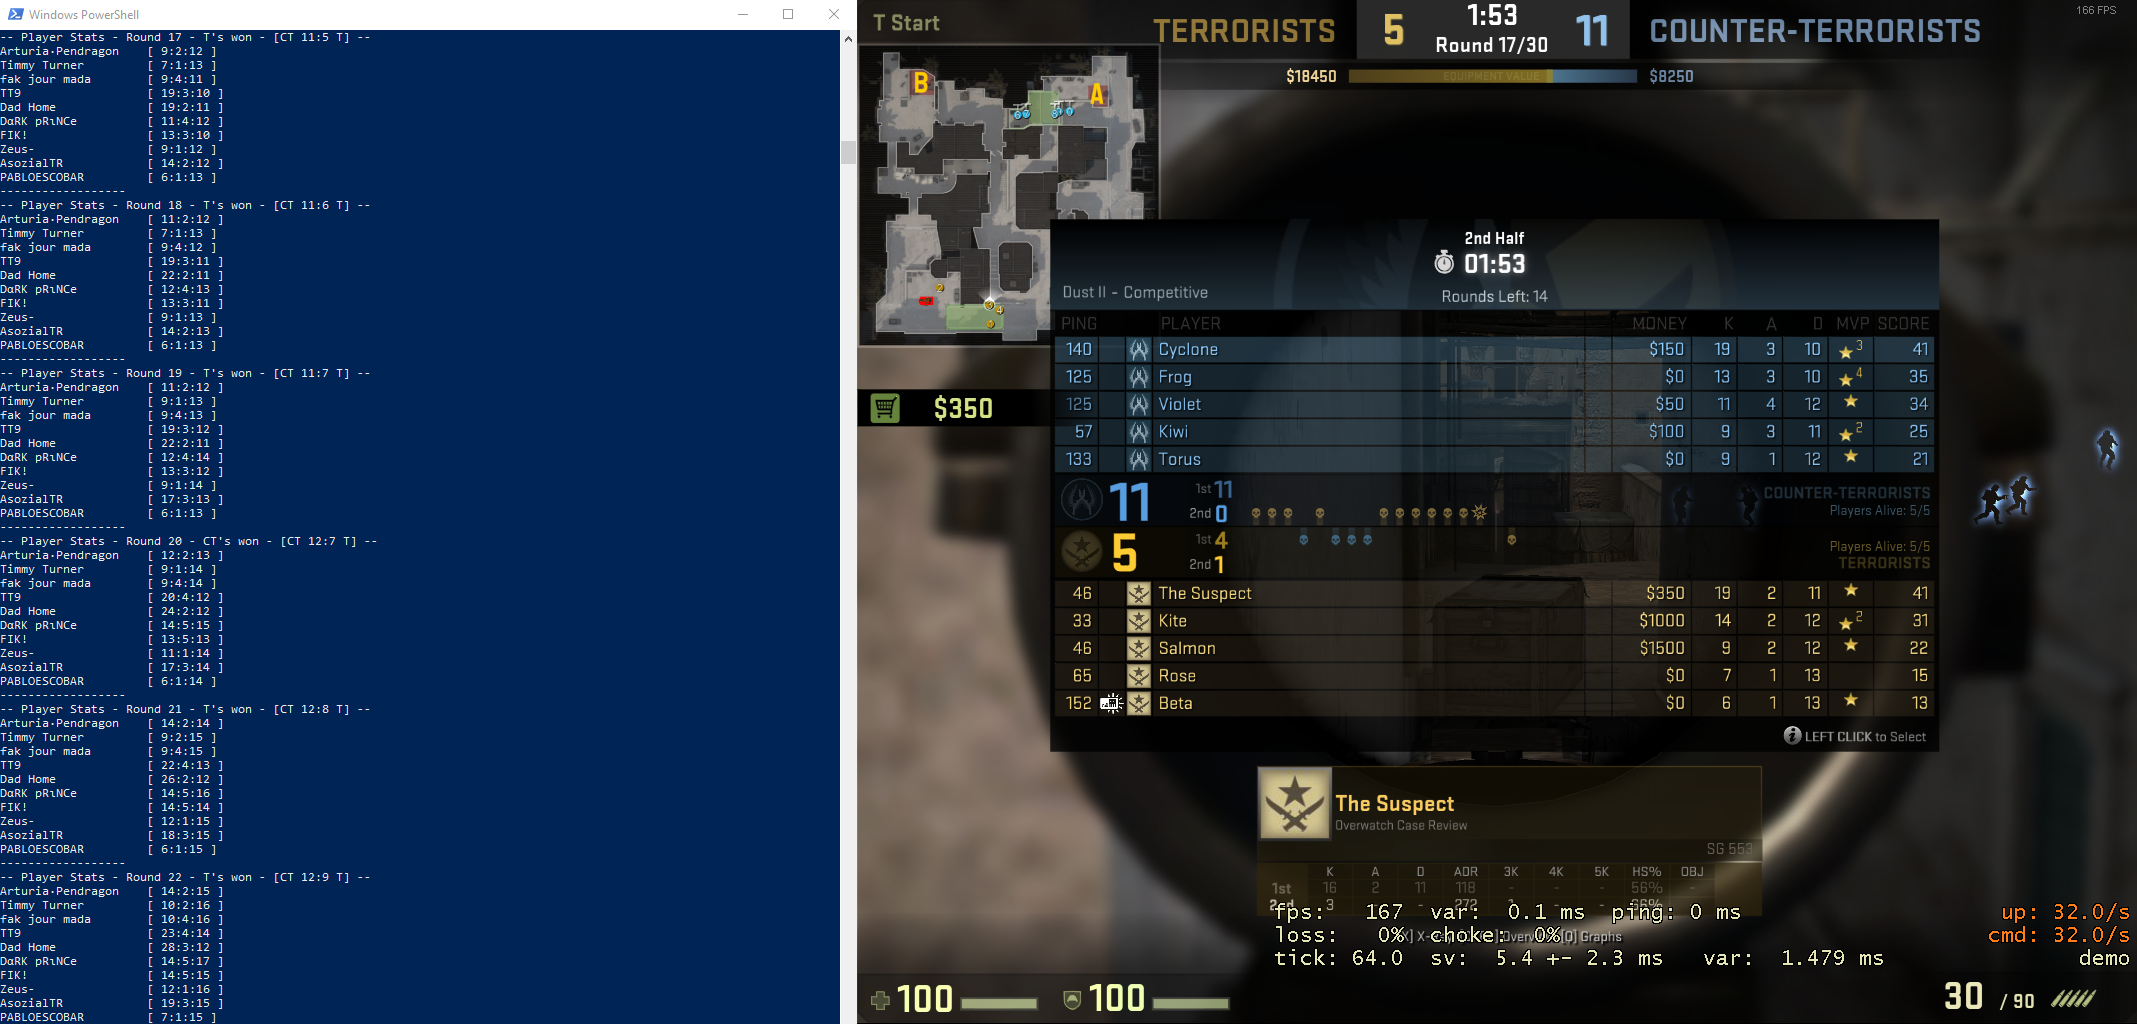
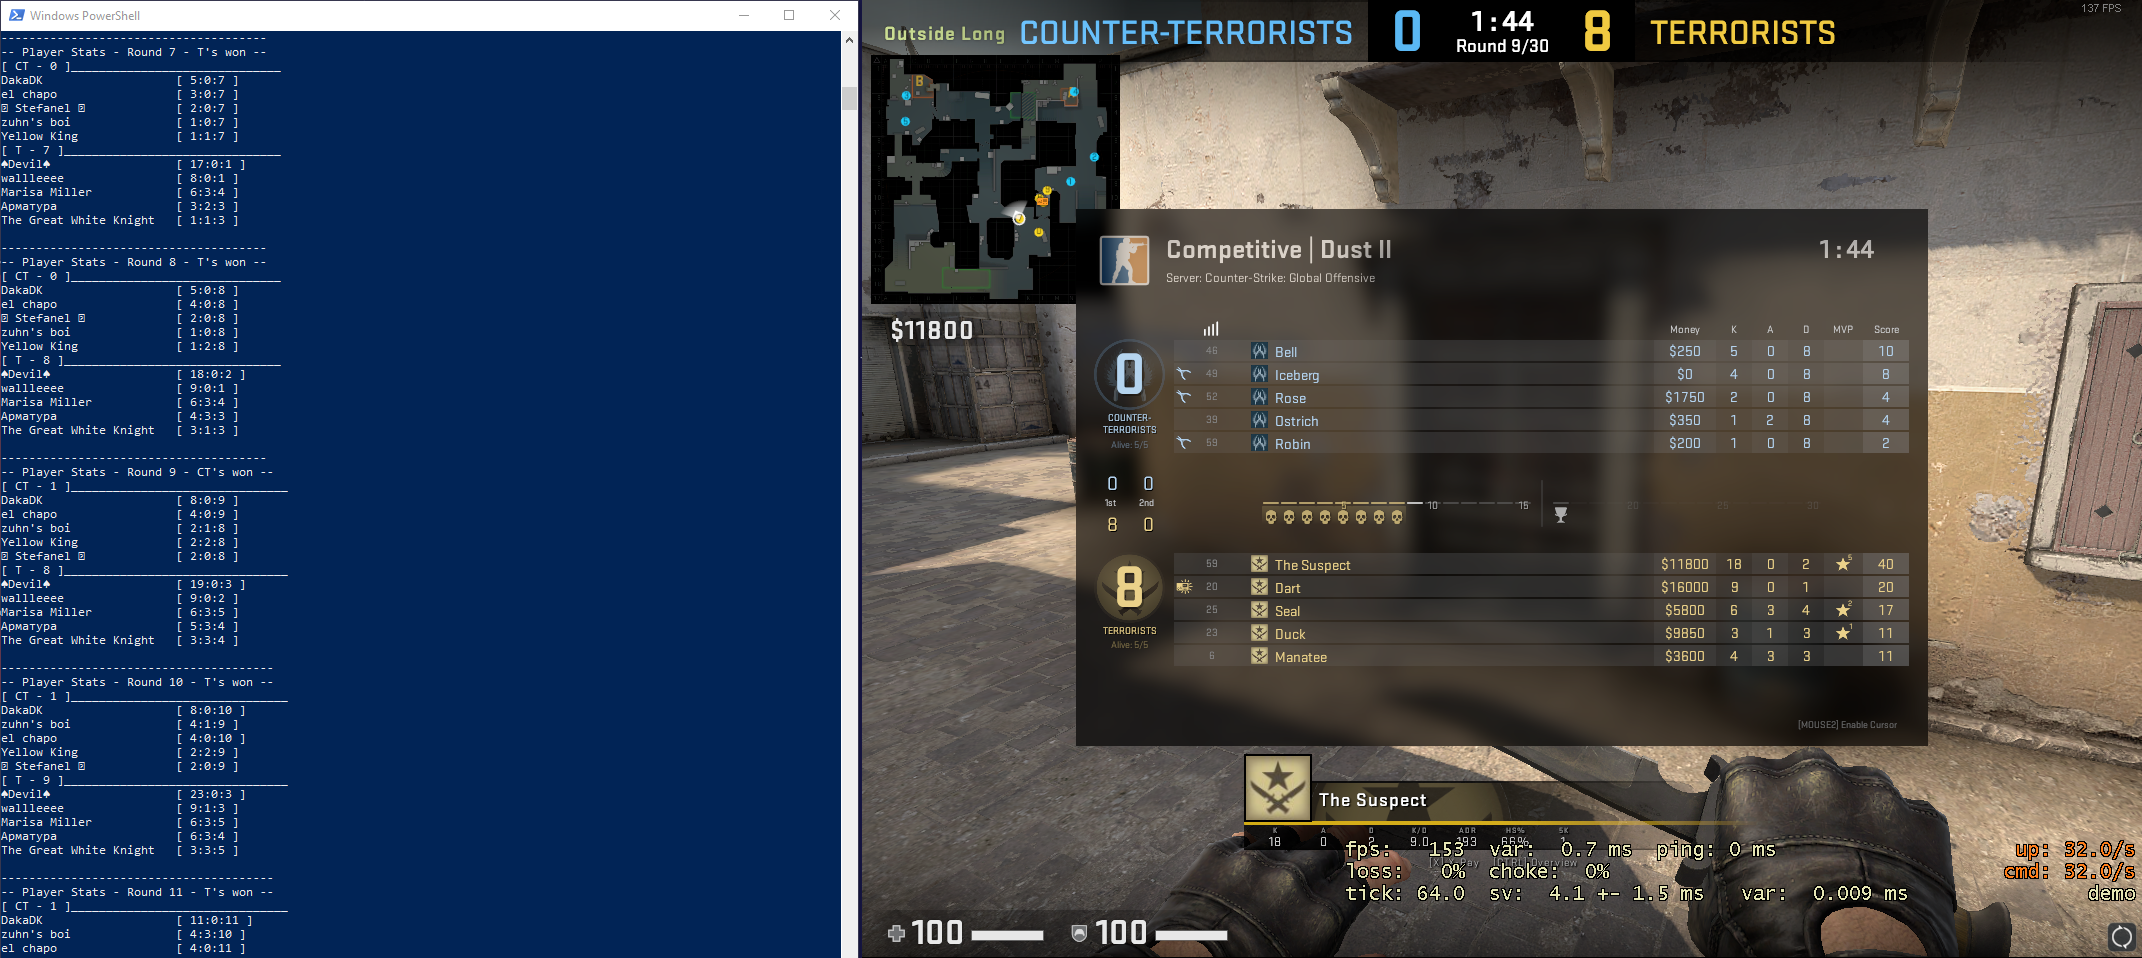
Updated screenshots

diff --git a/README.md b/README.md
@@ -4,6 +4,10 @@ This tool is a quick hack that allows to investigate the actual suspects of CSGO
 
 ![screenshot](screenshot.png)
 
+Overview of all Steam profiles after demo is finished:
+
+![screenshot](screenshot-verdict.png)
+
 *Note*: This tool does not interfere with CSGO in any way. So it should not get you banned. The demo files can be downloaded by everyone that has access to the URL. If you have further questions, you should probably not use this tool.
 
 ## Dependencies
